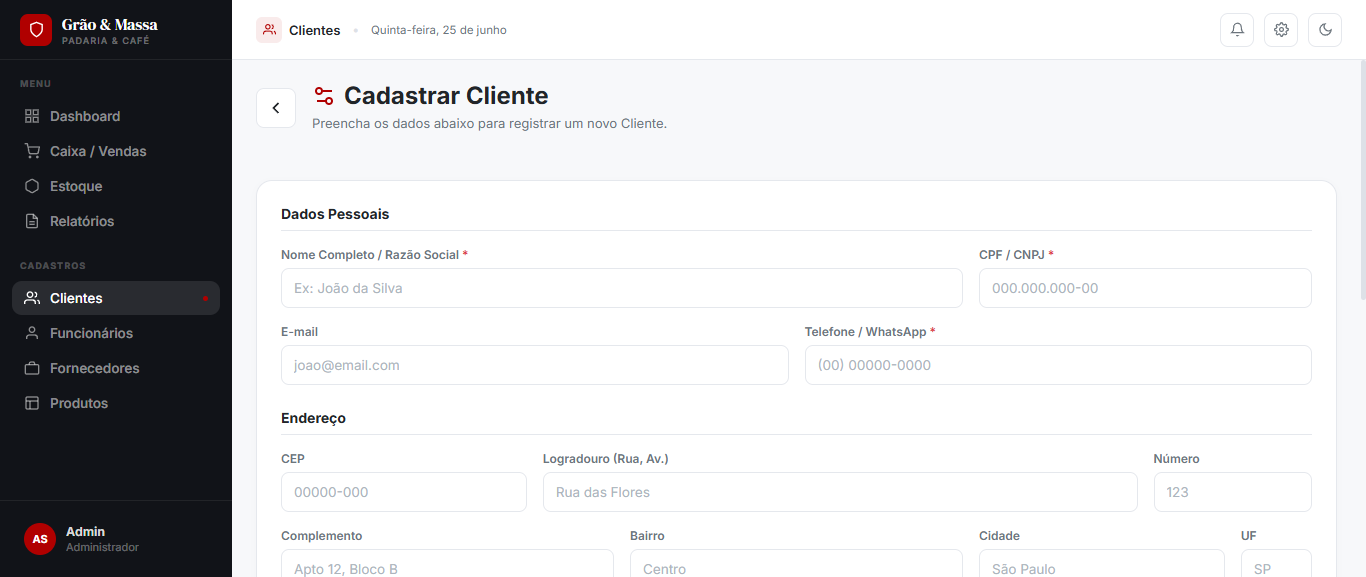
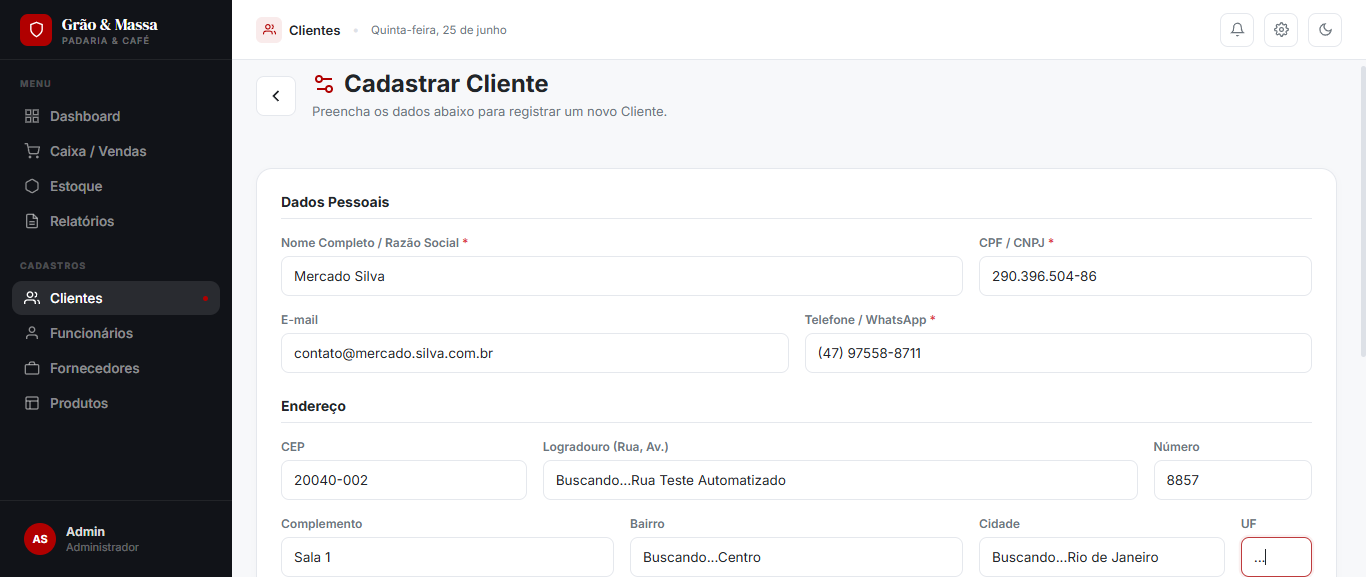
cOMMIT cLIENTES

diff --git a/TesteCadastroClientes/dashboard.html b/TesteCadastroClientes/dashboard.html
@@ -25,8 +25,8 @@
                 <h1>Relatório de Automação: Cadastro de Clientes</h1>
                 <div class="summary">
                     <div class="card"><h3>Total Cadastros</h3><h2>2</h2></div>
-                    <div class="card"><h3 class="status-sucesso">Sucessos</h3><h2>0</h2></div>
-                    <div class="card"><h3 class="status-falha">Falhas</h3><h2>2</h2></div>
+                    <div class="card"><h3 class="status-sucesso">Sucessos</h3><h2>2</h2></div>
+                    <div class="card"><h3 class="status-falha">Falhas</h3><h2>0</h2></div>
                 </div>
                 <table>
                     <thead>
@@ -41,15 +41,15 @@
         
                 <tr>
                     <td>1</td>
-                    <td>Roberto Dias</td>
-                    <td class="status-falha">Falha</td>
+                    <td>Mercado Silva</td>
+                    <td class="status-sucesso">Sucesso</td>
                     <td><a class="img-link" href="cadastro_cliente_1.png" target="_blank">Visualizar Screenshot</a></td>
                 </tr>
             
                 <tr>
                     <td>2</td>
-                    <td>Lanchonete Express</td>
-                    <td class="status-falha">Falha</td>
+                    <td>Cafeteria Central</td>
+                    <td class="status-sucesso">Sucesso</td>
                     <td><a class="img-link" href="cadastro_cliente_2.png" target="_blank">Visualizar Screenshot</a></td>
                 </tr>
             

diff --git a/Teste Python/cliente.py b/Teste Python/cliente.py
@@ -1,8 +1,3 @@
-"""
-TESTE AUTOMATIZADO - CADASTRO DE CLIENTES (GRÃO & MASSA)
-Sistema: Grão & Massa - Padaria & Café
-Ferramenta: Selenium WebDriver com Python
-"""
 
 from selenium import webdriver
 from selenium.webdriver.common.by import By
@@ -47,7 +42,7 @@ class TesteAutomatizadoCliente:
             "nCpfCnpj": f"{random.randint(100, 999)}.{random.randint(100, 999)}.{random.randint(100, 999)}-{random.randint(10, 99)}",
             "nEmail": f"contato@{nome_email}.com.br",
             "nTelefone": f"(47) 9{random.randint(1000, 9999)}-{random.randint(1000, 9999)}",
-            # Lista de CEPs reais para não dar erro de "CEP não encontrado"
+            # Lista de CEPs reais 
             "nCep": random.choice(["01001-000", "89201-000", "80010-000", "30140-071", "20040-002"]),
             "nLogradouro": f"Rua Teste Automatizado",
             "nNumero": str(random.randint(10, 9999)),
@@ -143,20 +138,20 @@ class TesteAutomatizadoCliente:
             nome_print = ""
             
             try:
-                # Acessa a página de cadastro
+                # 1. Acessa a página
                 self.driver.get(self.url_base)
                 
-                # Preenchimento inicial
+                # 2. Preenche os dados iniciais
                 self.wait.until(EC.presence_of_element_located((By.NAME, "nNome"))).send_keys(dados["nNome"])
                 self.driver.find_element(By.NAME, "nCpfCnpj").send_keys(dados["nCpfCnpj"])
                 self.driver.find_element(By.NAME, "nEmail").send_keys(dados["nEmail"])
                 self.driver.find_element(By.NAME, "nTelefone").send_keys(dados["nTelefone"])
                 
-                # Preenche o CEP e DÁ UMA PAUSA para o JavaScript (ViaCEP) carregar a rua
+                # 3. Preenche CEP e dá um tempinho pro JS buscar na internet
                 self.driver.find_element(By.NAME, "nCep").send_keys(dados["nCep"])
                 time.sleep(1.5) 
                 
-                # Preenche o restante 
+                # 4. Preenche o restante do endereço
                 self.driver.find_element(By.NAME, "nLogradouro").send_keys(dados["nLogradouro"])
                 self.driver.find_element(By.NAME, "nNumero").send_keys(dados["nNumero"])
                 self.driver.find_element(By.NAME, "nComplemento").send_keys(dados["nComplemento"])
@@ -164,24 +159,25 @@ class TesteAutomatizadoCliente:
                 self.driver.find_element(By.NAME, "nCidade").send_keys(dados["nCidade"])
                 self.driver.find_element(By.NAME, "nUf").send_keys(dados["nUf"])
                 
-                # Clica em Salvar
-                self.driver.find_element(By.XPATH, "//button[@type='submit']").click()
-                
-                # Dá 3 segundos para o PHP salvar no Banco de Dados e redirecionar a página
-                time.sleep(3) 
-                
-                # Tira o print AQUI, dando tempo para a tela de sucesso carregar
+                # ---> MUDANÇA AQUI: Tira a foto COM OS DADOS PREENCHIDOS, ANTES de salvar! <---
                 nome_print = self.tirar_screenshot(f"cadastro_cliente_{i+1}.png")
                 
-                # Verifica sucesso 
-                if "msg=sucesso" in self.driver.current_url.lower() or "cadastrado com sucesso" in self.driver.page_source.lower():
+                # 5. Agora sim clica no botão Salvar
+                self.driver.find_element(By.XPATH, "//button[@type='submit']").click()
+                
+                # 6. Aguarda o PHP processar e salvar no banco
+                time.sleep(2) 
+                
+                # 7. Verifica sucesso (se a URL tem msg=sucesso, se a tela diz que salvou, ou se simplesmente recarregou a página sem erro)
+                codigo_fonte = self.driver.page_source.lower()
+                if "msg=sucesso" in self.driver.current_url.lower() or "cadastrado com sucesso" in codigo_fonte or "cadastrar cliente" in codigo_fonte:
                     status = "Sucesso"
                 
             except Exception as e:
                 print(f"✗ Erro no processo do cliente {dados['nNome']}: {e}")
                 nome_print = self.tirar_screenshot(f"cadastro_cliente_erro_{i+1}.png")
             
-            # Salva na lista de resultados
+            # Salva na lista
             self.resultados_testes.append({
                 "id": i+1,
                 "nome": dados["nNome"],
@@ -189,7 +185,7 @@ class TesteAutomatizadoCliente:
                 "screenshot": nome_print
             })
 
-        # Finalização
+        # Finaliza e abre o relatório
         caminho_report = self.gerar_relatorio_html()
         self.driver.quit()
         
@@ -201,7 +197,6 @@ if __name__ == "__main__":
     try:
         qtd = int(input("Quantos clientes você deseja cadastrar automaticamente? "))
         if qtd > 0:
-            # ATENÇÃO: Ajuste a URL local para o caminho onde sua página PHP roda no XAMPP!
             URL_LOCAL = "http://localhost:8080/Github/Padaria_grao_massa/Cadastrar_Cliente.php"
             
             teste = TesteAutomatizadoCliente(url_base=URL_LOCAL)
